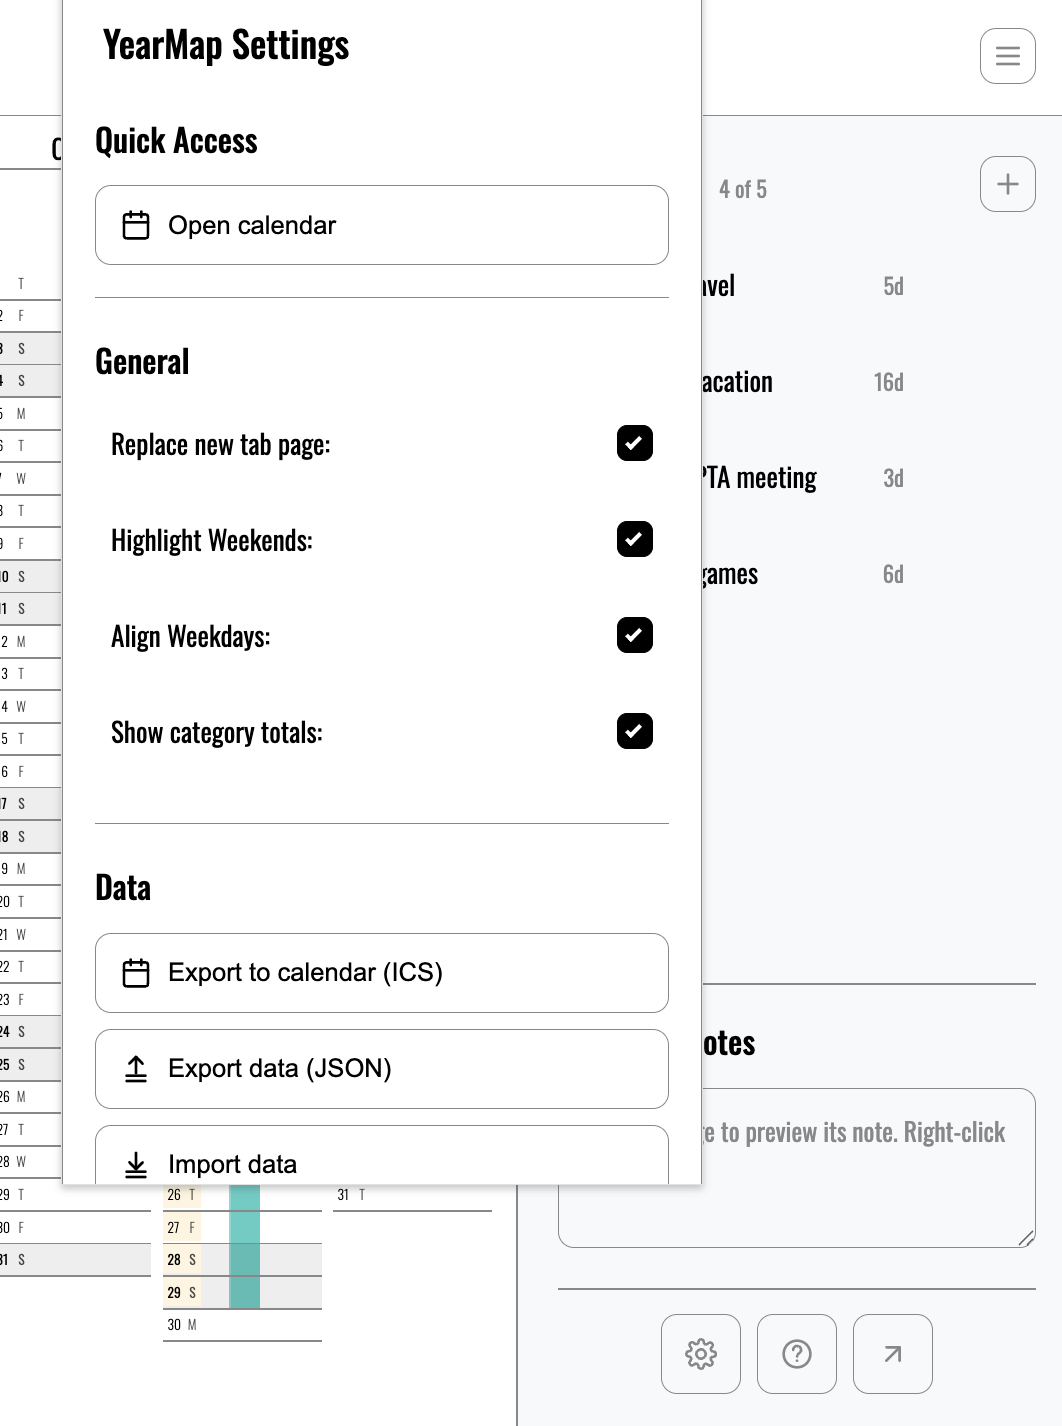
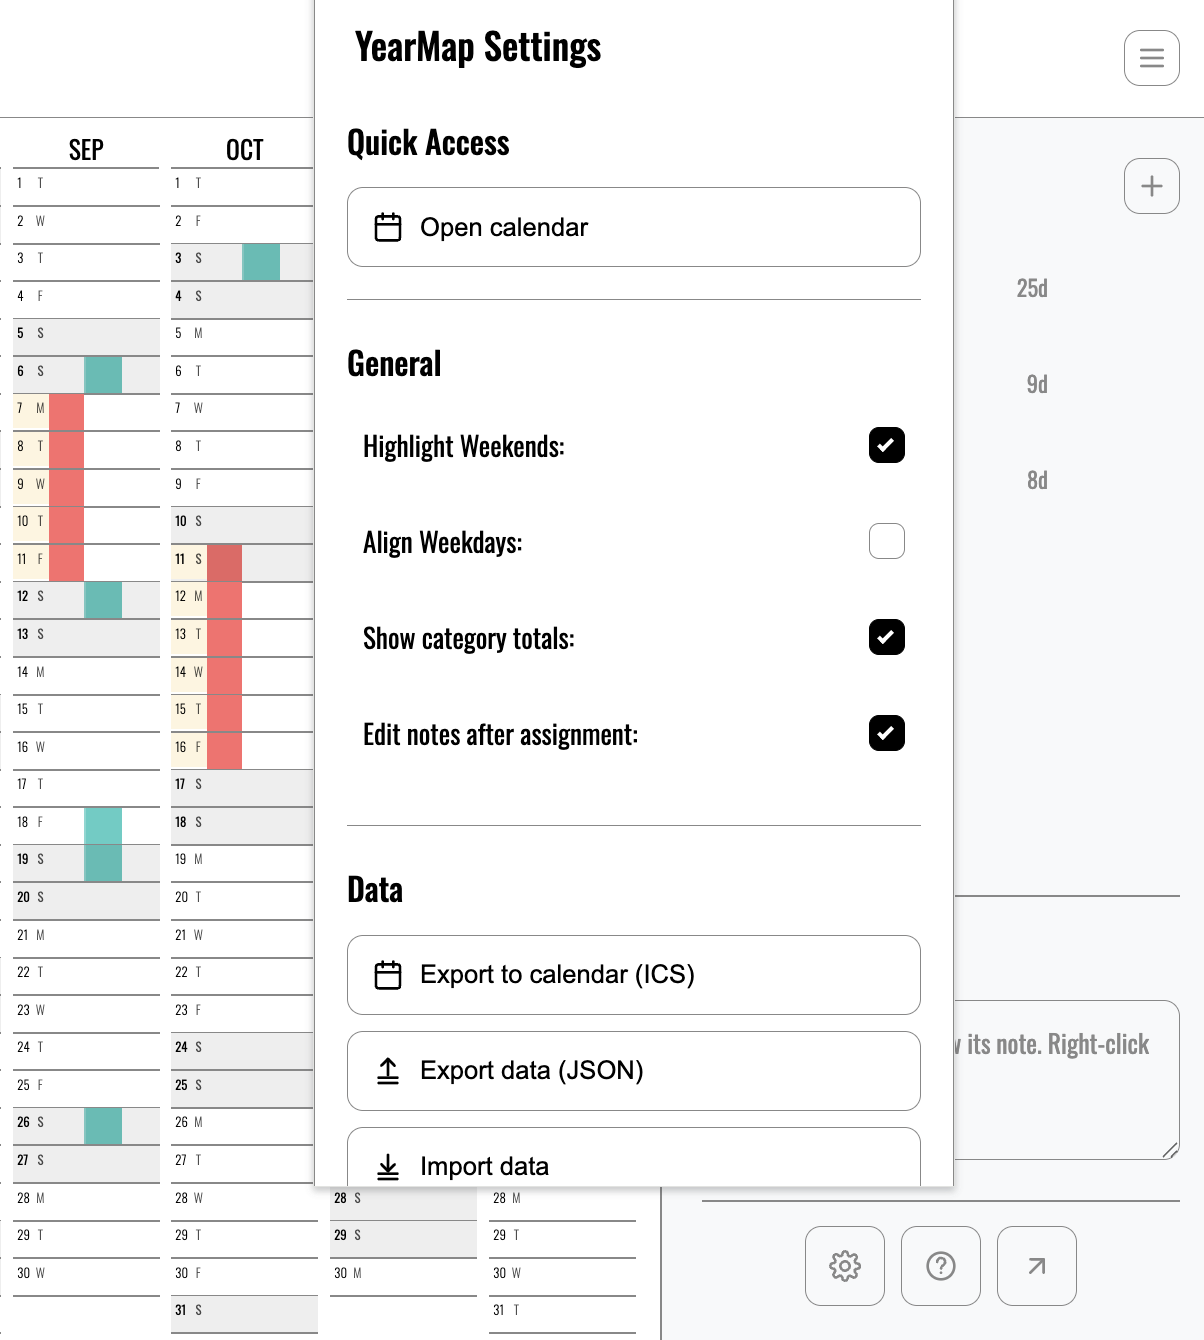
Refresh website with YearMap demo media

diff --git a/index.html b/index.html
@@ -114,11 +114,23 @@
     .btn:hover{opacity:0.8}
 
     .hero{
-      padding:80px 0;
+      min-height:640px;
+      padding:88px 0 72px;
       border-bottom:1px solid var(--border);
       position:relative;
       overflow:hidden;
-      background:url('https://yearmap.app/assets/yearmap_full.png') right center/contain no-repeat;
+      display:flex;
+      align-items:center;
+      background:var(--bg);
+    }
+    .hero-video{
+      position:absolute;
+      inset:0;
+      width:100%;
+      height:100%;
+      object-fit:cover;
+      object-position:center;
+      z-index:0;
     }
 
     /* Fade overlay for text readability */
@@ -129,24 +141,24 @@
       left:0;
       right:0;
       bottom:0;
-      background:linear-gradient(to right, var(--bg) 0%, var(--bg) 45%, rgba(255,255,255,0.85) 60%, transparent 80%);
+      background:
+        linear-gradient(to right, var(--bg) 0%, rgba(255,255,255,0.98) 34%, rgba(255,255,255,0.84) 49%, rgba(255,255,255,0.12) 78%),
+        linear-gradient(to bottom, rgba(255,255,255,0.2), transparent 28%, transparent 72%, rgba(255,255,255,0.2));
       pointer-events:none;
       z-index:1;
     }
 
     .hero-grid{
-      display:grid;
-      grid-template-columns: 1fr 1fr;
-      gap:60px;
-      align-items:center;
       position:relative;
       z-index:2;
-      min-height:500px;
+      width:100%;
     }
 
     .hero-content{
       position:relative;
       z-index:3;
+      max-width:520px;
+      padding:36px 0;
     }
 
     h1{
@@ -162,15 +174,6 @@
       color:var(--muted);
       margin-bottom:32px;
       line-height:1.5;
-    }
-
-    .calendar-preview{
-      position:relative;
-      z-index:3;
-      height:500px;
-      display:flex;
-      align-items:center;
-      justify-content:center;
     }
 
     .section{
@@ -213,7 +216,7 @@
 
     .screenshots{
       display:grid;
-      grid-template-columns:repeat(2, minmax(0, 1fr));
+      grid-template-columns:repeat(3, minmax(0, 1fr));
       gap:28px;
       align-items:start;
     }
@@ -222,13 +225,13 @@
       border:1px solid var(--border);
       background:var(--bg);
     }
-    .screenshot-card.large{
-      grid-column:1 / -1;
-    }
     .screenshot-card img{
       display:block;
       width:100%;
-      height:auto;
+      height:440px;
+      object-fit:contain;
+      object-position:top center;
+      background:#fafafa;
     }
     .screenshot-caption{
       border-top:1px solid var(--border);
@@ -292,14 +295,19 @@
     }
 
     @media (max-width: 960px){
-      .hero-grid{grid-template-columns:1fr;}
       .features{grid-template-columns:1fr 1fr}
       .screenshots{grid-template-columns:1fr}
-      .screenshot-card.large{grid-column:auto}
+      .screenshot-card img{height:auto}
       .how{grid-template-columns:1fr 1fr}
       .grid-2{grid-template-columns:1fr}
     }
     @media (max-width: 640px){
+      .hero{min-height:620px; align-items:flex-end; padding:220px 0 48px}
+      .hero-video{object-position:72% center}
+      .hero::before{
+        background:linear-gradient(to bottom, rgba(255,255,255,0.18) 0%, rgba(255,255,255,0.82) 40%, var(--bg) 64%);
+      }
+      .hero-content{max-width:none; padding:0}
       h1{font-size:36px}
       .features,.how{grid-template-columns:1fr}
       .nav-links{display:none}
@@ -350,14 +358,14 @@
 
   <main>
     <section class="hero">
+      <video class="hero-video" autoplay muted loop playsinline preload="metadata" poster="/assets/yearmap-demo-poster.png" aria-hidden="true">
+        <source src="/assets/yearmap-demo.mp4" type="video/mp4">
+      </video>
       <div class="container hero-grid">
         <div class="hero-content">
           <h1>Plan your year at a glance</h1>
           <p class="lead">YearMap brings the beloved <a href="https://neatnik.net/calendar/" target="_blank" rel="noreferrer noopener">Neatnik</a> layout to Chrome with smooth range selection, layered category lanes, notes, and local ICS export. Keep the analog clarity — gain just enough digital structure.</p>
           <a class="btn" href="https://chromewebstore.google.com/detail/yearmap/mhjlipallhabmljhgibfiadncacficao" target="_blank" rel="noopener noreferrer">Add to Chrome — It’s free</a>
-        </div>
-        <div class="calendar-preview">
-          <!-- Calendar background image is now applied to the entire hero section -->
         </div>
       </div>
     </section>
@@ -398,25 +406,25 @@
       <div class="container">
         <h2>See it in use</h2>
         <div class="screenshots">
-          <figure class="screenshot-card large">
-            <img src="/assets/yearmap-interface.png" alt="YearMap calendar with categories, lane totals, and range notes" loading="lazy">
+          <figure class="screenshot-card">
+            <img src="/assets/yearmap-range-details.png" alt="YearMap Range details editor with category, start and end dates, and note field" loading="lazy">
             <figcaption class="screenshot-caption">
-              <h3>Plan in lanes</h3>
-              <p>Category lanes let the same day hold travel, school, sports, or any other plan side by side.</p>
+              <h3>Edit range details</h3>
+              <p>Adjust a range’s dates and note together, then undo the edit if you change your mind.</p>
             </figcaption>
           </figure>
           <figure class="screenshot-card">
-            <img src="/assets/yearmap-commands.png" alt="YearMap command help panel showing selection, assignment, deletion, undo, and note commands" loading="lazy">
+            <img src="/assets/yearmap-commands.png" alt="YearMap command help panel showing selection, assignment, deletion, undo, and range editing commands" loading="lazy">
             <figcaption class="screenshot-caption">
               <h3>Command help</h3>
-              <p>Common actions stay close by, including range deletion, undo, and note editing.</p>
+              <p>Common actions stay close by, including range deletion, undo, and detail editing.</p>
             </figcaption>
           </figure>
           <figure class="screenshot-card">
-            <img src="/assets/yearmap-settings.png" alt="YearMap settings popup with weekend highlighting, weekday alignment, category totals, and export controls" loading="lazy">
+            <img src="/assets/yearmap-settings.png" alt="YearMap settings popup with weekend highlighting, weekday alignment, category totals, automatic note editing, and export controls" loading="lazy">
             <figcaption class="screenshot-caption">
               <h3>Settings and export</h3>
-              <p>Tune the calendar display, show category totals, and export your ranges when you need them elsewhere.</p>
+              <p>Tune the display and note workflow, show category totals, and export your ranges when you need them elsewhere.</p>
             </figcaption>
           </figure>
         </div>
@@ -433,7 +441,7 @@
           </div>
           <div class="step">
             <b>Add Meaning</b>
-            <p>Assign the range to a category lane. A single day can hold multiple categories, each with its own color and optional note.</p>
+            <p>Assign the range to a category lane, then add a note or adjust its dates in the Range details editor.</p>
           </div>
           <div class="step">
             <b>Export &amp; Sync</b>
@@ -488,11 +496,11 @@
           </div>
           <div>
             <h3>How do notes work?</h3>
-            <p class="muted">Right‑click a range lane to edit its note. Notes auto‑save and appear in the sidebar preview, hover tooltips, and ICS event descriptions.</p>
+            <p class="muted">Right‑click a range lane to edit its dates and note together. Saved notes appear in the sidebar preview, hover tooltips, and ICS event descriptions.</p>
           </div>
           <div>
             <h3>What about deletions?</h3>
-            <p class="muted">Hold Shift and click any day in a range to remove it. Use Ctrl/Cmd+Z within 30s to undo.</p>
+            <p class="muted">Hold Shift and click any day in a range to remove it. Use Ctrl/Cmd+Z within 30 seconds to undo an assignment, edit, or deletion.</p>
           </div>
         </div>
       </div>